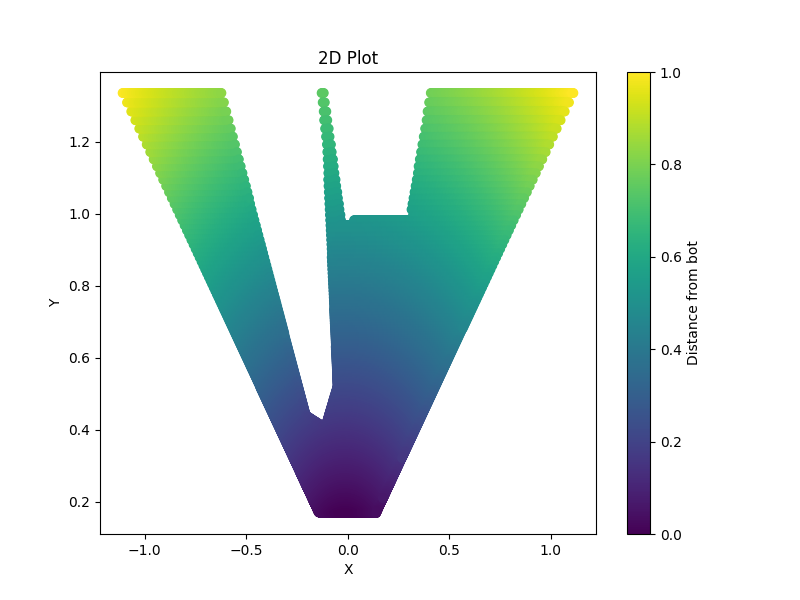
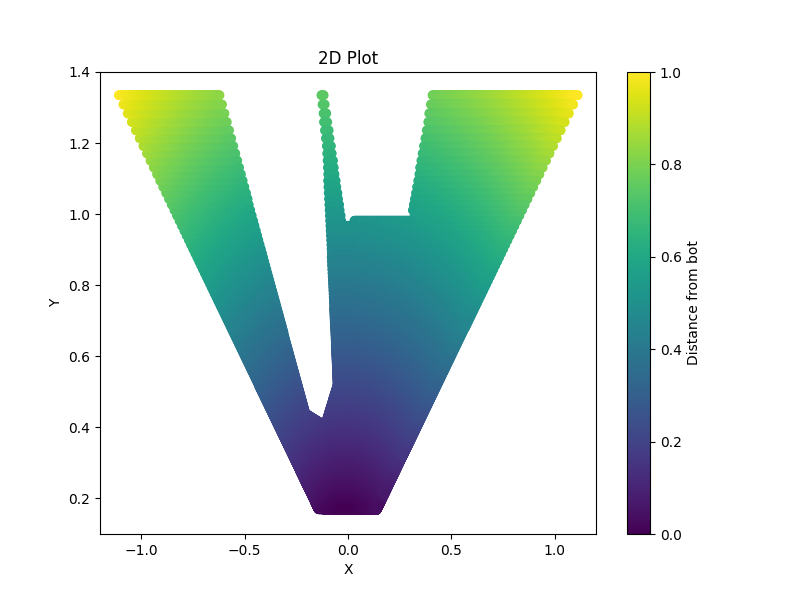
fixed axes limits in plots

diff --git a/bot_with_camera/src/plot.py b/bot_with_camera/src/plot.py
@@ -4,7 +4,9 @@ from mpl_toolkits.mplot3d import Axes3D
 import cv2
 import transformation
 
-seg_mask = "/home/ros/workspace/src/syscon_project/bot_with_camera/src/manual/masks/7.png"
+name = "1"
+
+seg_mask = "/home/ros/workspace/src/syscon_project/bot_with_camera/src/manual/masks/{}.png".format(name)
 plot_path = "/home/ros/workspace/src/syscon_project/bot_with_camera/src/manual/plots/"
 
 mask = cv2.imread(seg_mask, cv2.IMREAD_GRAYSCALE)
@@ -19,14 +21,17 @@ x = np.array([coord[0] for coord in points])
 y = np.array([coord[1] for coord in points])
 z = [0 for coord in points]
 
-#3D PLOT
+# #3D PLOT
 fig = plt.figure()
 ax = fig.add_subplot(111, projection='3d')
 ax.scatter(x, y, z)
 ax.set_xlabel('X')
 ax.set_ylabel('Y')
 ax.set_zlabel('Z')
-plt.savefig(plot_path+"3d_plots/" + "7.png")
+ax.set_xlim(-1.2,1.2)
+ax.set_ylim(0.1,1.4)
+ax.set_zlim(-0.4,0.4)
+plt.savefig(plot_path+"3d_plots/" + "{}.png".format(name))
 
 #2D PLOT (TOP VIEW SHOWING DISTANCE FROM BOT)
 distances = np.sqrt(x**2 + y**2)
@@ -34,8 +39,10 @@ norm_distances = (distances - distances.min()) / (distances.max() - distances.mi
 plt.figure(figsize=(8, 6))
 scatter = plt.scatter(x, y, c=norm_distances, cmap='viridis', marker='o')
 colorbar = plt.colorbar(scatter)
-colorbar.set_label('Distance from bot')
+colorbar.set_label('Normalized Distance from bot')
 plt.xlabel('X')
 plt.ylabel('Y')
 plt.title('2D Plot')
-plt.savefig(plot_path+"2d_plots/" + "7.png")
+plt.xlim(-1.2,1.2)
+plt.ylim(0.1,1.4)
+plt.savefig(plot_path+"2d_plots/" + "{}.png".format(name))
